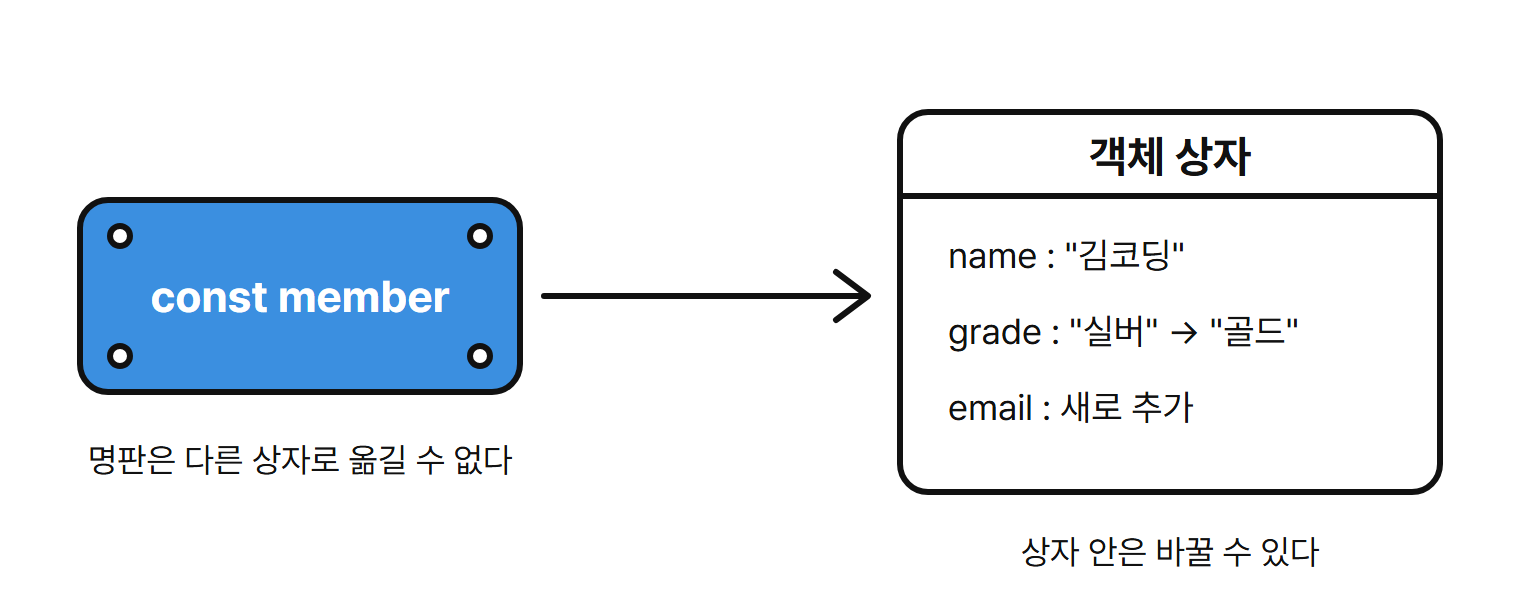
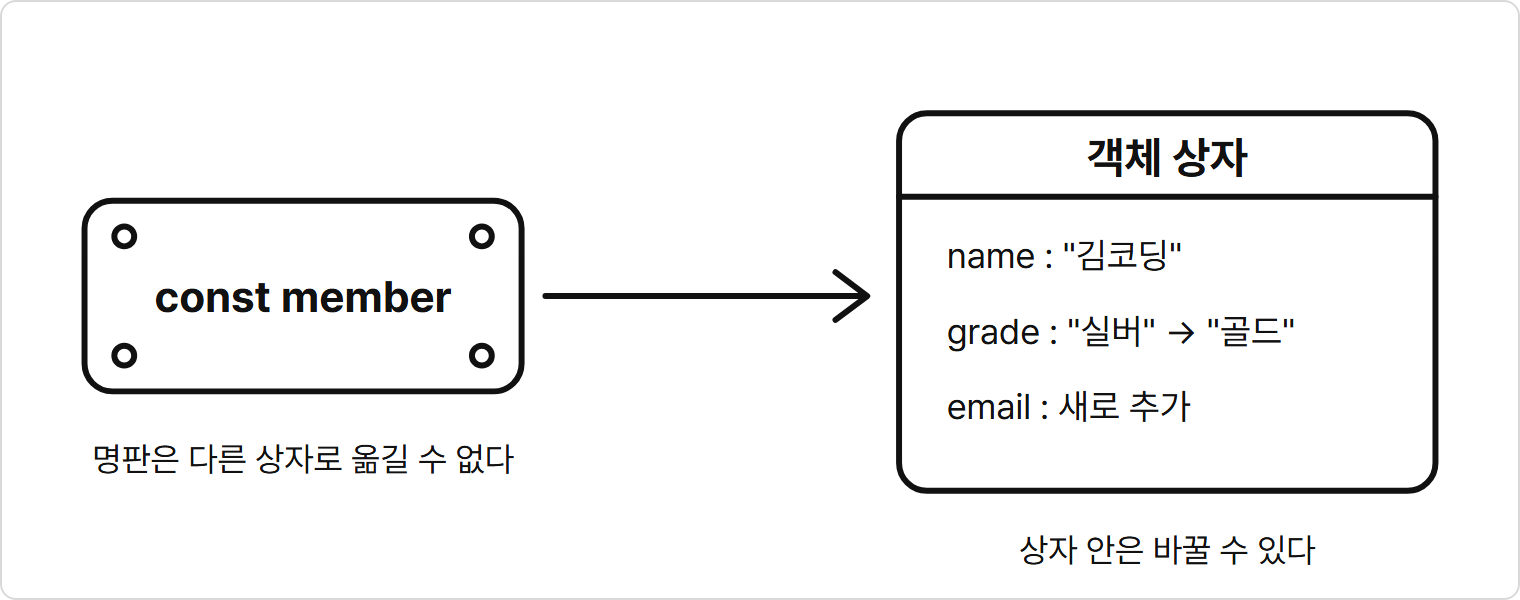
원고 그림을 기본 흑백으로 바꾸고 파랑은 꼭 필요할 때만 쓰게 함
- 색이 없으면 주인공이 배경에 묻힐 때만 파랑을 쓰고 이유를 적는다. 강조는 굵은 글씨, 화살표, 캡션으로 한다
- 파랑을 기준으로 보여 주던 지도 위 상어 참고 그림(line-art-accent.png)을 지움
- 개념 그림 틀, few-shot 샘플과 생성 이미지 자리 예시에서 파랑을 뺌

diff --git a/.claude/skills/book-manuscript/assets/concept-figure.html b/.claude/skills/book-manuscript/assets/concept-figure.html
@@ -6,7 +6,8 @@
   <!--
     개념 그림 틀. 복사해서 .book/figures/{NN}/{그림 이름}.html로 저장하고 <svg> 안만 바꾼다.
     스타일 기준: assets/style-ref/의 선 그림(굵기 일정한 검정 외곽선, 흰 배경, 평면 채색)
-    색은 세 가지만 쓴다: 흰색(바탕) · 검정 #111111(선 · 글자) · 강조 파랑 #3B8FE0(핵심 한 곳의 채움)
+    색은 흰색(바탕)과 검정 #111111(선 · 글자)만 쓴다
+    파랑 #3B8FE0(.accent)은 색이 없으면 주인공이 배경에 묻힐 때만 쓰고, 그 이유를 여기에 적는다
     그림자 · 그라데이션 · 회색 · 다른 색은 쓰지 않는다
     연한 회색 테두리는 capture-figure.mjs가 캡처할 때 붙이므로 여기에 그리지 않는다
     캡처: node .claude/skills/book-manuscript/scripts/capture-figure.mjs <이 파일> book/images/{NN}/{그림 이름}.png
@@ -27,12 +28,12 @@
   <!-- 폭은 760 고정. 높이만 그림에 맞춘다 -->
   <svg id="figure" width="760" height="300" viewBox="0 0 760 300" xmlns="http://www.w3.org/2000/svg">
     <!-- 예시: const 명판이 붙은 객체 상자 -->
-    <rect class="accent" x="40" y="100" width="220" height="96" rx="14"/>
+    <rect class="shape" x="40" y="100" width="220" height="96" rx="14"/>
     <circle class="shape" cx="60" cy="118" r="5"/>
     <circle class="shape" cx="240" cy="118" r="5"/>
     <circle class="shape" cx="60" cy="178" r="5"/>
     <circle class="shape" cx="240" cy="178" r="5"/>
-    <text class="on-accent" x="150" y="156" text-anchor="middle">const member</text>
+    <text class="title" x="150" y="156" text-anchor="middle">const member</text>
     <text class="caption" x="150" y="236" text-anchor="middle">명판은 다른 상자로 옮길 수 없다</text>
 
     <path class="line" d="M 272 148 L 432 148"/>

diff --git a/.claude/skills/book-manuscript/references/style-guide.md b/.claude/skills/book-manuscript/references/style-guide.md
@@ -287,11 +287,12 @@ flowchart TD
 
 4장 "그림"의 조건을 만족할 때만 쓴다.
 생성 이미지와 개념 그림은 같은 스타일이다.
-책에 넣는 이미지는 종류와 상관없이 모두 연한 회색 테두리(1px `#d9d9d9`, 모서리 8px)를 붙인 PNG로 넣는다. 실행 결과는 `assets/result-frame.html`이, 개념 그림은 `scripts/capture-figure.mjs`가 붙인다. 테두리는 그림 밖의 액자라서 아래 색 세 가지에 세지 않는다.
+책에 넣는 이미지는 종류와 상관없이 모두 연한 회색 테두리(1px `#d9d9d9`, 모서리 8px)를 붙인 PNG로 넣는다. 실행 결과는 `assets/result-frame.html`이, 개념 그림은 `scripts/capture-figure.mjs`가 붙인다. 테두리는 그림 밖의 액자라서 아래 색 규칙에 세지 않는다.
 
 - 스타일: 굵기가 일정한 검정 외곽선의 단순한 선 그림, 흰 배경, 그림자와 그라데이션 없음
-- 색: 흰색, 검정, 파랑(#3B8FE0) 세 가지만 쓴다. 파랑은 핵심 한 곳만 평면으로 채운다
-- 기준 그림: book-manuscript 스킬의 `assets/style-ref/` (`line-art-shark.png` 선만, `line-art-accent.png` 강조색 하나, `concept-figure-sample.png` 개념 그림)
+- 색: 기본은 흰색과 검정만 쓴다. 강조하려고 색을 넣지 않는다. 강조는 굵은 글씨, 화살표, 캡션으로 한다
+- 색이 꼭 필요할 때만 파랑(#3B8FE0) 한 가지를 평면으로 채운다. 꼭 필요한 때는 색이 없으면 주인공이 배경에 묻혀 알아보기 어려운 경우다(예: 선이 많은 지도 위에 올린 캐릭터). 넣을 때는 그 이유를 생성 이미지 자리의 스타일 줄이나 그림 HTML 주석에 적는다
+- 기준 그림: book-manuscript 스킬의 `assets/style-ref/` (`line-art-shark.png` 선 그림, `concept-figure-sample.png` 개념 그림)
 
 | 그릴 것 | 종류 | 만드는 때 |
 |---|---|---|
@@ -303,7 +304,7 @@ flowchart TD
 **생성 이미지 자리**
 
 - `**시각자료 — 그림 이름**` 아래에 `text` 코드 블록으로 둔다. 첫 줄은 `[생성 이미지: images/{NN}/{파일명}.png]`이다.
-- 장면, 그림 속 글자, 비율(기본 가로 3:2), 스타일, 참고 그림을 한 줄씩 쓴다. 스타일 줄은 위 스타일과 색을 문장으로 그대로 옮기고 파랑을 채울 곳을 적는다.
+- 장면, 그림 속 글자, 비율(기본 가로 3:2), 스타일, 참고 그림을 한 줄씩 쓴다. 스타일 줄은 위 스타일과 색을 문장으로 그대로 옮긴다. 색이 꼭 필요한 경우에만 파랑을 채울 곳과 이유를 덧붙인다.
 - 그림 속 글자는 코드 이름과 숫자 위주로 짧게 쓴다. 생성 도구가 한글을 틀리게 그리기 쉽기 때문이다.
 - 이미지가 생기면 `<img id="figure" src="생성 이미지.png" width="760">` 한 줄짜리 HTML을 만들어 `capture-figure.mjs`로 다시 캡처해 테두리를 붙인다. 그다음 코드 블록을 `![그림 이름](images/{NN}/{파일명}.png)` 한 줄로 바꾼다.
 - 예시는 few-shot 예시 1의 3-2에 있다.
@@ -311,7 +312,7 @@ flowchart TD
 **개념 그림**
 
 - 틀 `assets/concept-figure.html`을 `.book/figures/{NN}/{파일명}.html`로 복사하고 `<svg>` 안만 바꾼다. 폭은 760 고정이다.
-- 틀의 클래스(`line`, `shape`, `accent`, `text`, `title`, `caption`)만 쓰고 새 색을 넣지 않는다. 글자는 17px 이상이다.
+- 틀의 클래스(`line`, `shape`, `text`, `title`, `caption`)만 쓰고 새 색을 넣지 않는다. `accent`(파랑 채움)는 위 색 규칙의 꼭 필요한 경우에만 쓴다. 글자는 17px 이상이다.
 - `node .claude/skills/book-manuscript/scripts/capture-figure.mjs .book/figures/{NN}/{파일명}.html book/images/{NN}/{파일명}.png`로 PNG를 만든다. 스크립트가 연한 회색 테두리를 붙이므로 HTML에 테두리를 그리지 않는다.
 - 원고에는 `**시각자료 — 그림 이름**` 아래 `![그림 이름](images/{NN}/{파일명}.png)`을 0칸 문단으로 넣는다.
 - 완성 PNG를 열어 잘림, 겹침, 용어가 본문과 같은지 확인한다. 원본 HTML은 고칠 때 쓰므로 지우지 않는다.
@@ -395,7 +396,7 @@ book-review는 아래 ID로 보고한다. MD-2~MD-5는 `book-review/scripts/chec
 - [ ] 규칙이 있는 개념에 `**특징**` 하이픈 목록이 있고, 배우지 않은 특징을 넣지 않았다.
 - [ ] 다른 개념과 견주는 내용은 특징 목록에 섞지 않고 `**비교 — A와 B**` 표로 만들었다.
 - [ ] 그림은 비유나 쉬운 예시가 있는 곳에만, 세부항목마다 하나 이하로, 기본 문법 바로 위에 있다.
-- [ ] 생성 이미지 자리와 개념 그림이 6장 "그림"의 스타일, 색 세 가지, 형식을 따른다. 개념 그림 PNG를 열어 확인했다.
+- [ ] 생성 이미지 자리와 개념 그림이 6장 "그림"의 스타일, 색 규칙(기본 흑백, 꼭 필요할 때만 파랑), 형식을 따른다. 개념 그림 PNG를 열어 확인했다.
 - [ ] 책에 넣은 이미지가 모두 연한 회색 테두리를 붙인 PNG다.
 - [ ] Mermaid 문법을 검증했다. 실제 렌더링을 확인하지 못한 것은 검토 결과에 밝혔다.
 - [ ] 책 원고에 실제 Mermaid 코드 블록이 있으며 이미지 링크로 대체하지 않았다. 목적에 맞는 종류와 설명 구성을 선택했고 중요한 상태·분기·반복·예외를 보존했다.

diff --git a/.claude/skills/book-manuscript/SKILL.md b/.claude/skills/book-manuscript/SKILL.md
@@ -31,7 +31,7 @@ description: 확정된 book-syllabus 강의계획서를 바탕으로 강사·수
 - 세부항목마다 시각화할 설명이 있는지 검토한다. 실행 순서, 조건 분기, 요소 간 관계, 데이터 구조, 상태 변화, 값 비교를 글로 따라가기 어려운 곳에는 시각자료를 포함한다.
 - 흐름·순서·분기·관계·ER은 Mermaid, 메모리 칸·배열 칸·화면 배치는 텍스트 도식, 값·특성 비교는 표로 표현한다. Mermaid는 표현 목적에 맞는 종류를 고르고 핵심 분기·반복·예외를 보존한다. 실제 상태 전이가 학습목표면 상태도를 허용한다. 흐름은 먼저 한 장으로 쓰고 book-mermaid로 재 본 뒤, 한눈에 읽히지 않으면 완료·실패처럼 끝나는 곳 기준의 시나리오 그림으로 나눈다. 돌아가는 전이는 해당 시나리오 그림에 유지한다. 상세 선택 기준은 book-mermaid의 ‘Mermaid 다이어그램 작성 규칙’, 형식은 `style-guide.md` 6장을 따른다.
 - 원고의 `**시각자료 — 그림 이름**` 아래 실제 Mermaid 코드 블록 또는 텍스트 도식을 작성하고, 그림 아래에 읽어야 할 핵심을 짧게 설명한다. Mermaid는 book-mermaid로 렌더링해 검증하며 책 원고에도 Mermaid 코드 블록을 그대로 둔다. Mermaid로 그릴 도식은 PNG/SVG 이미지 링크나 생성 이미지 자리로 대체하지 않는다.
-- 비유나 쉬운 예시 장면이 있는 개념에는 기본 문법 바로 위에 그림을 하나 둘 수 있다. 사물이 나오는 비유 장면은 생성 이미지 자리로, 상자와 화살표 같은 개념 구조는 직접 그린 개념 그림으로 둔다. 두 종류 모두 `assets/style-ref/`의 선 그림 스타일(흰 배경, 검정 선, 색 세 가지 이하)을 따른다. 상세 형식은 `style-guide.md` 6장 "그림"이다.
+- 비유나 쉬운 예시 장면이 있는 개념에는 기본 문법 바로 위에 그림을 하나 둘 수 있다. 사물이 나오는 비유 장면은 생성 이미지 자리로, 상자와 화살표 같은 개념 구조는 직접 그린 개념 그림으로 둔다. 두 종류 모두 `assets/style-ref/`의 선 그림 스타일(흰 배경, 검정 선, 기본 흑백)을 따르고, 색은 꼭 필요할 때만 파랑 한 가지를 쓴다. 상세 형식은 `style-guide.md` 6장 "그림"이다.
 - 장마다 그림 개수를 강제하지 않는다. 단순한 문법 설명은 생략할 수 있지만, 시각자료가 필요한 설명을 생략 대상으로 처리하지 않는다.
 - few-shot의 변수 선택 흐름도와 할 일 추가 흐름도를 형식 예시로 삼는다. 현재 장에서 아직 배우지 않은 조건이나 기능을 그림에 미리 넣지 않는다.
 

diff --git a/.claude/skills/book-manuscript/references/few-shot.md b/.claude/skills/book-manuscript/references/few-shot.md
@@ -127,8 +127,8 @@ console.log("준비할 의자:", chairCount);
 장면: 왼쪽에는 손이 viewCount라고 적힌 포스트잇을 숫자 0 상자에서 떼어 숫자 1 상자에 붙인다. 오른쪽에는 title이라고 적힌 명판이 나사 네 개로 문에 박혀 있다.
 그림 속 글자: viewCount, 0, 1, title
 비율: 가로 3:2
-스타일: 굵기가 일정한 검정 외곽선의 단순한 선 그림. 흰 배경. 그림자와 그라데이션 없음. 색은 흰색, 검정, 파랑(#3B8FE0) 세 가지만 쓰고, 파랑은 포스트잇 한 곳만 평면으로 채운다.
-참고 그림: book-manuscript/assets/style-ref/line-art-shark.png, line-art-accent.png
+스타일: 굵기가 일정한 검정 외곽선의 단순한 선 그림. 흰 배경. 그림자와 그라데이션 없음. 색은 흰색과 검정만 쓴다.
+참고 그림: book-manuscript/assets/style-ref/line-art-shark.png
 ```
 
 포스트잇은 다른 상자로 옮겨 붙일 수 있지만, 명판은 처음 박은 자리에 그대로 있습니다.
@@ -1008,7 +1008,7 @@ const list = document.querySelector("#list"); list.prepend(item); ```
 
 ![예시 개념 그림](../assets/style-ref/concept-figure-sample.png)
 
-- 검정 외곽선만으로 상자와 화살표를 그렸고, 파랑은 명판 한 곳만 채웠다.
+- 흰색과 검정만으로 상자와 화살표를 그렸다. 명판은 나사 구멍으로 알아볼 수 있어 색을 넣지 않았다.
 - 그림 속 글자는 본문의 용어(`const member`, 객체 상자, 속성 이름)와 같다.
 - 캡션 두 줄이 특징 두 항목과 하나씩 맞물린다.
 
